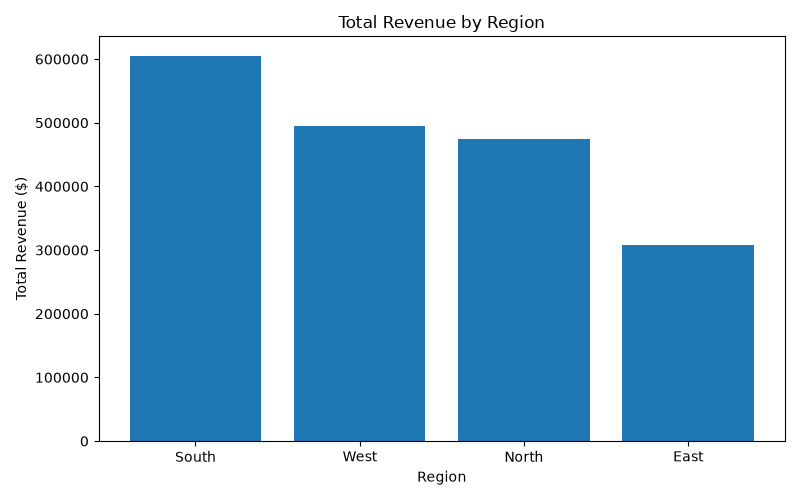
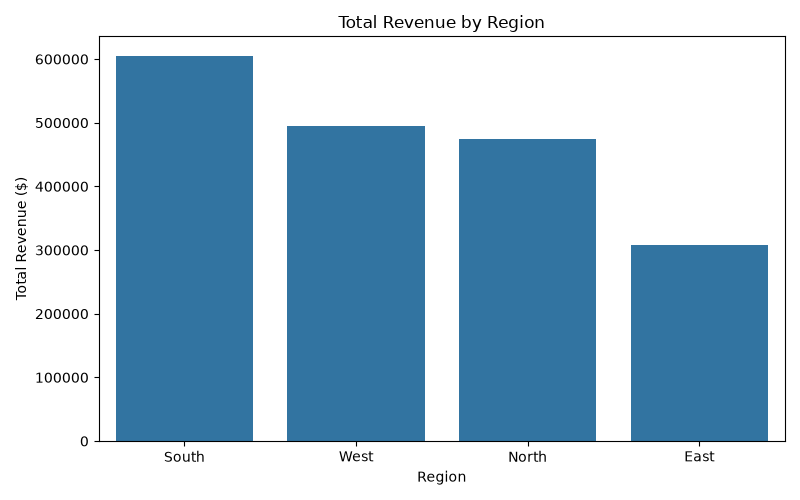
Complete Exercises 3 through 6

diff --git a/ism2411-lab15/aggregate.py b/ism2411-lab15/aggregate.py
@@ -2,6 +2,7 @@
 
 import pandas as pd
 import matplotlib.pyplot as plt
+import seaborn as sns
 
 df = pd.read_csv("data/clean_sales.csv", parse_dates=["order_date"])
 
@@ -15,7 +16,11 @@ df.groupby("region")["revenue"]
 print(revenue_by_region)
 
 plt.figure(figsize=(8, 5))
-plt.bar(revenue_by_region["region"], revenue_by_region["revenue"])
+sns.barplot(
+data=revenue_by_region,
+x="region",
+y="revenue"
+)
 plt.title("Total Revenue by Region")
 plt.xlabel("Region")
 plt.ylabel("Total Revenue ($)")
@@ -51,3 +56,75 @@ plt.tight_layout()
 plt.savefig("charts/q2_monthly_trend.png")
 plt.close()
 # December had the highest revenue at $199,684.11, about 26.48% above the monthly average.
+
+# Exercise 3 - Q3: Order size distribution
+
+mean_order = df["revenue"].mean()
+median_order = df["revenue"].median()
+
+print("Mean order size:", mean_order)
+print("Median order size:", median_order)
+
+plt.figure(figsize=(8, 5))
+plt.hist(df["revenue"], bins=20)
+plt.title("Order Size Distribution")
+plt.xlabel("Revenue ($)")
+plt.ylabel("Frequency")
+plt.tight_layout()
+plt.savefig("charts/q3_order_distribution.png")
+plt.close()
+# The order-size distribution is right-skewed, so a few large orders pull the mean above the typical order size; the median is more representative for a business analyst.
+
+# Exercise 4 - Q4: Which product categories have the highest return rates?
+# A bar chart is appropriate because it makes it easy to compare return rates across categories.
+
+df["is_return"] = df["revenue"] < 0
+
+return_rate_by_category = (
+df.groupby("product_category")["is_return"]
+.mean()
+.mul(100)
+.reset_index(name="return_rate")
+.sort_values("return_rate", ascending=False)
+)
+
+print(return_rate_by_category)
+
+plt.figure(figsize=(9, 5))
+plt.bar(
+return_rate_by_category["product_category"],
+return_rate_by_category["return_rate"]
+)
+plt.title("Return Rate by Product Category")
+plt.xlabel("Product Category")
+plt.ylabel("Return Rate (%)")
+plt.xticks(rotation=45, ha="right")
+plt.tight_layout()
+plt.savefig("charts/q4_custom.png")
+plt.close()
+# Electronics had the highest return rate about 2.25%, while Appliances had the lowest at about 1.12%.
+
+# Exercise 5 - Seaborn version
+
+# Q1 was replaced with a Seaborn barplot.
+# Compared with plt.bar(), Seaborn's barplot lets me specify the DataFrame
+# and column names directly, which makes the chart code easier to read.
+
+# Exercise 6 - Multiple aggregations
+
+region_summary = (
+df.groupby("region")
+.agg(
+total_revenue=("revenue", "sum"),
+order_count=("revenue", "count")
+)
+.reset_index()
+)
+
+region_summary["average_order_value"] = (
+region_summary["total_revenue"] / region_summary["order_count"]
+)
+
+print(region_summary)
+# South has the most orders with 1,465.
+# North has the highest average order value at about $457.00.
